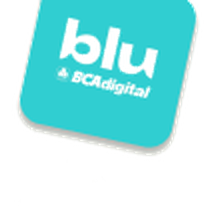
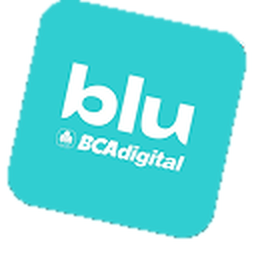
feat: restore angled clip transition to tentang and update blu badge from asset

diff --git a/index.html b/index.html
@@ -98,8 +98,8 @@
       50% { transform: translateY(-7px) rotate(-4deg); }
     }
     @keyframes badgeFloatRight {
-      0%, 100% { transform: translateY(0) rotate(6deg); }
-      50% { transform: translateY(-7px) rotate(8deg); }
+      0%, 100% { transform: translateY(0); }
+      50% { transform: translateY(-7px); }
     }
     .hero-badge-left {
       animation: badgeFloatLeft 4.5s ease-in-out infinite;
@@ -241,14 +241,14 @@
 
           <div class="flex sm:hidden items-center justify-center gap-6 mt-6">
             <img src="assets/images/badge-hacktiv8.png" alt="Hacktiv8" class="w-16 h-auto drop-shadow-md -rotate-6">
-            <img src="assets/images/badge-blu.png" alt="Blu by BCA Digital" class="w-16 h-auto drop-shadow-md rotate-6">
+            <img src="assets/images/badge-blu.png" alt="Blu by BCA Digital" class="w-16 h-auto drop-shadow-md">
           </div>
         </div>
       </div>
 
     </section>
 
-    <section id="tentang" class="relative min-h-screen flex flex-col justify-center py-20 px-4 sm:px-6 lg:px-8 overflow-hidden z-20 bg-[#0c433d] bg-no-repeat bg-bottom bg-cover" style="background-image: url('assets/images/bg-behind-visit.webp');">
+    <section id="tentang" class="relative min-h-screen flex flex-col justify-center py-20 px-4 sm:px-6 lg:px-8 overflow-hidden z-20 bg-[#0c433d] bg-no-repeat bg-bottom bg-cover" style="background-image: url('assets/images/bg-behind-visit.webp'); clip-path: polygon(0 0, 100% 45px, 100% 100%, 0 100%); margin-top: -45px;">
       
       <div class="relative z-20 max-w-7xl mx-auto w-full">
         <div class="flex items-start justify-between gap-6 mb-12 sm:mb-16">
